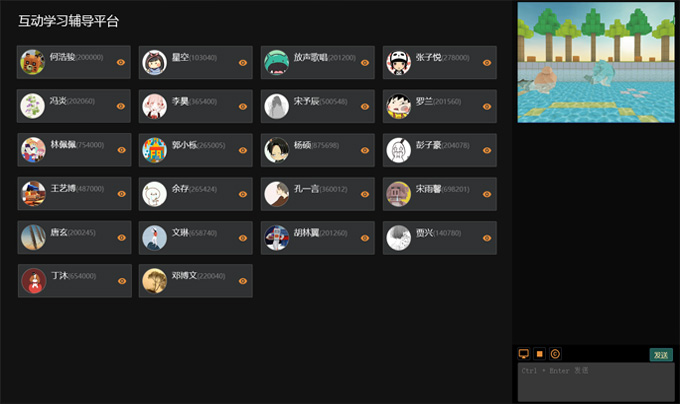
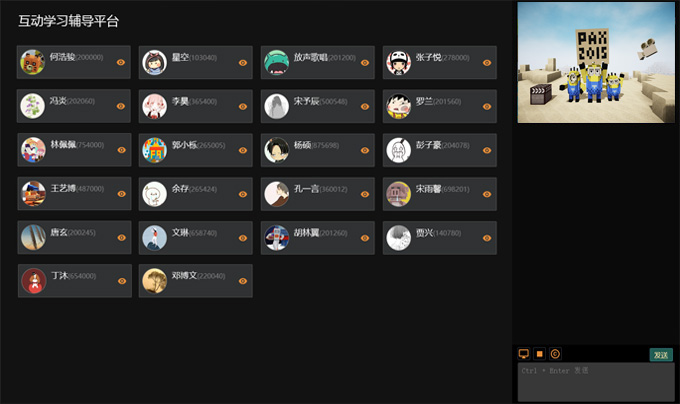
the images

Changed region(s): [[0.7412, 0.0, 1.0, 0.3267]]

diff --git a/app/web/component/common/HomePage.vue b/app/web/component/common/HomePage.vue
@@ -188,8 +188,8 @@ export default {
         { url: require('@/asset/images/carouse-pic-3.jpg') }
       ],
       carouselPic_2: [
-        { url: require('@/asset/images/carouse-pic-4.jpg') },
-        { url: require('@/asset/images/carouse-pic-5.jpg') },
+        { url: require('@/asset/images/优势2-从可视化到基于.jpg') },
+        { url: require('@/asset/images/优势2-开发从游戏.jpg') },
         {
           url: require('@/asset/images/优势2-开发从简单到复杂的3D动画与游戏.jpg')
         }
@@ -477,7 +477,7 @@ export default {
           color: #fff;
           text-align: center;
           font-size: 34px;
-          padding: 74px 0 67px;
+          padding: 74px 0 63px;
           font-weight: normal;
           margin: 0;
         }
